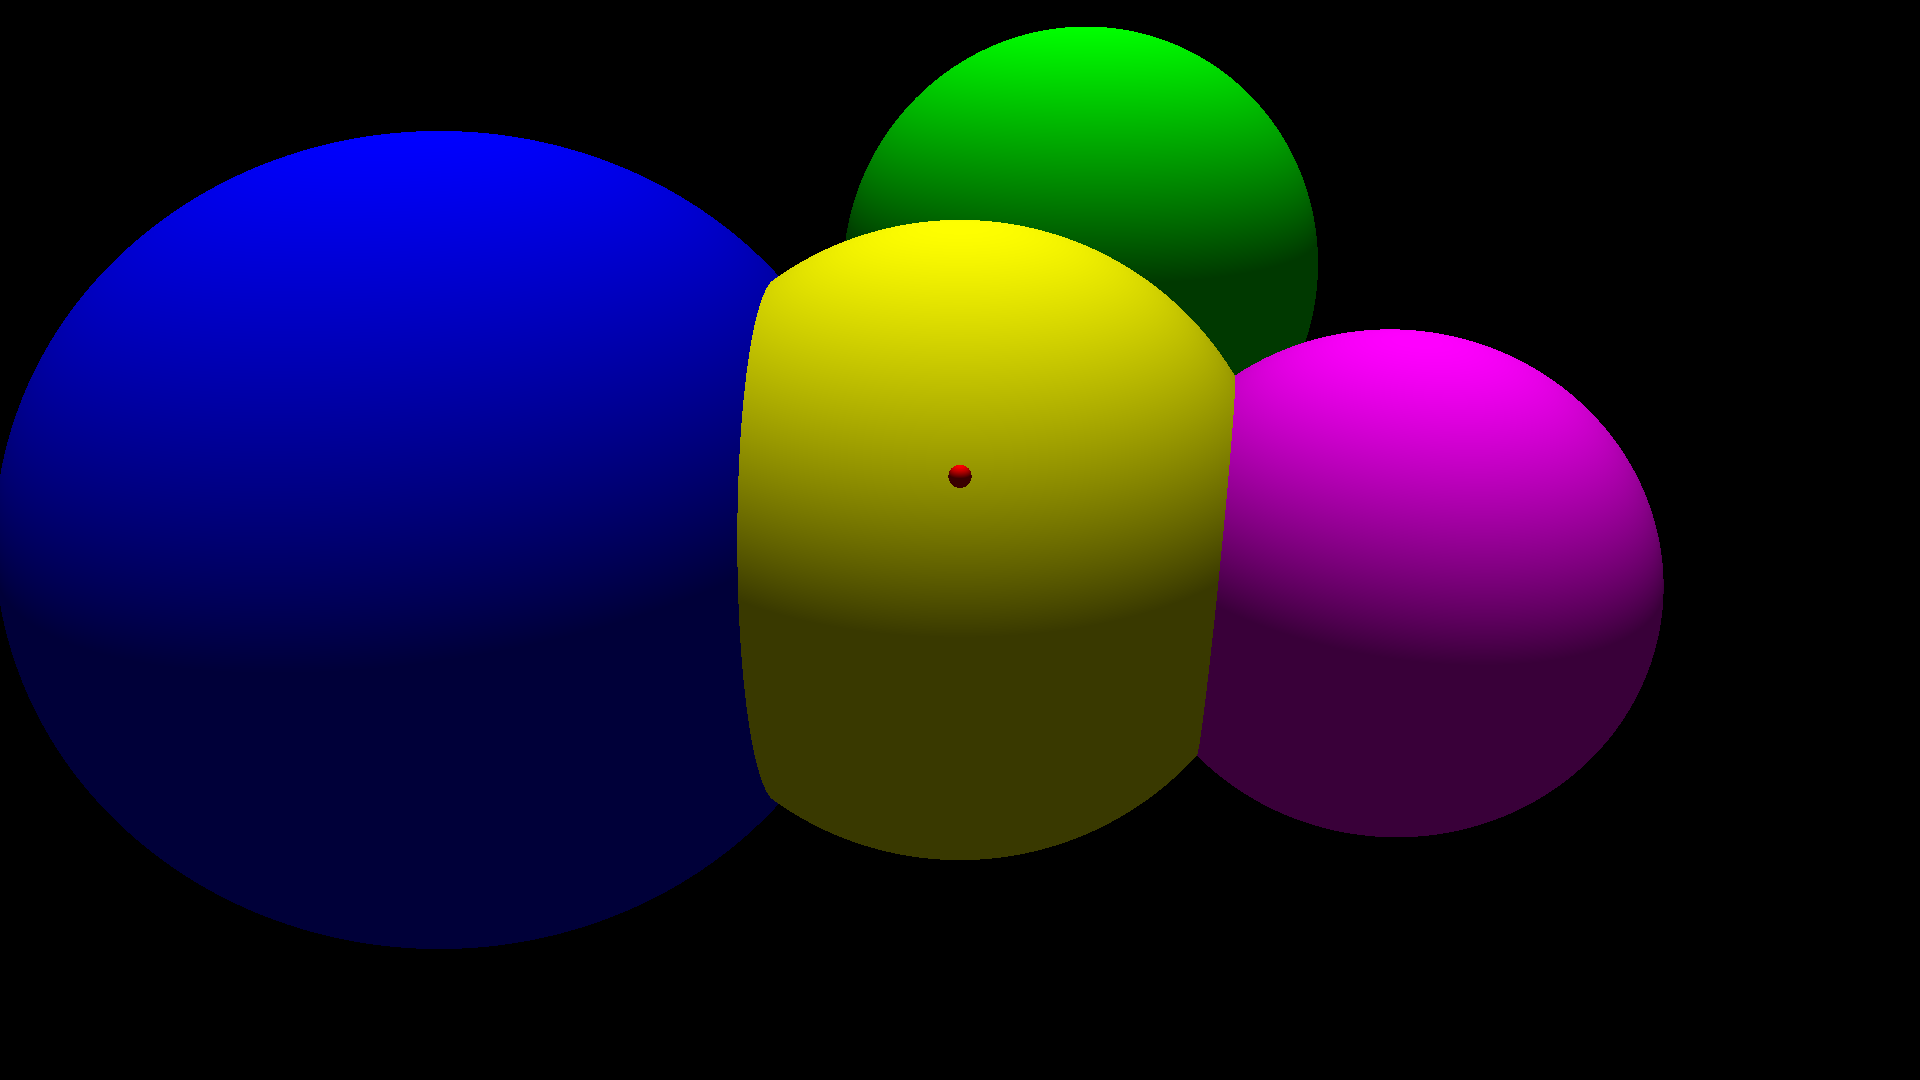
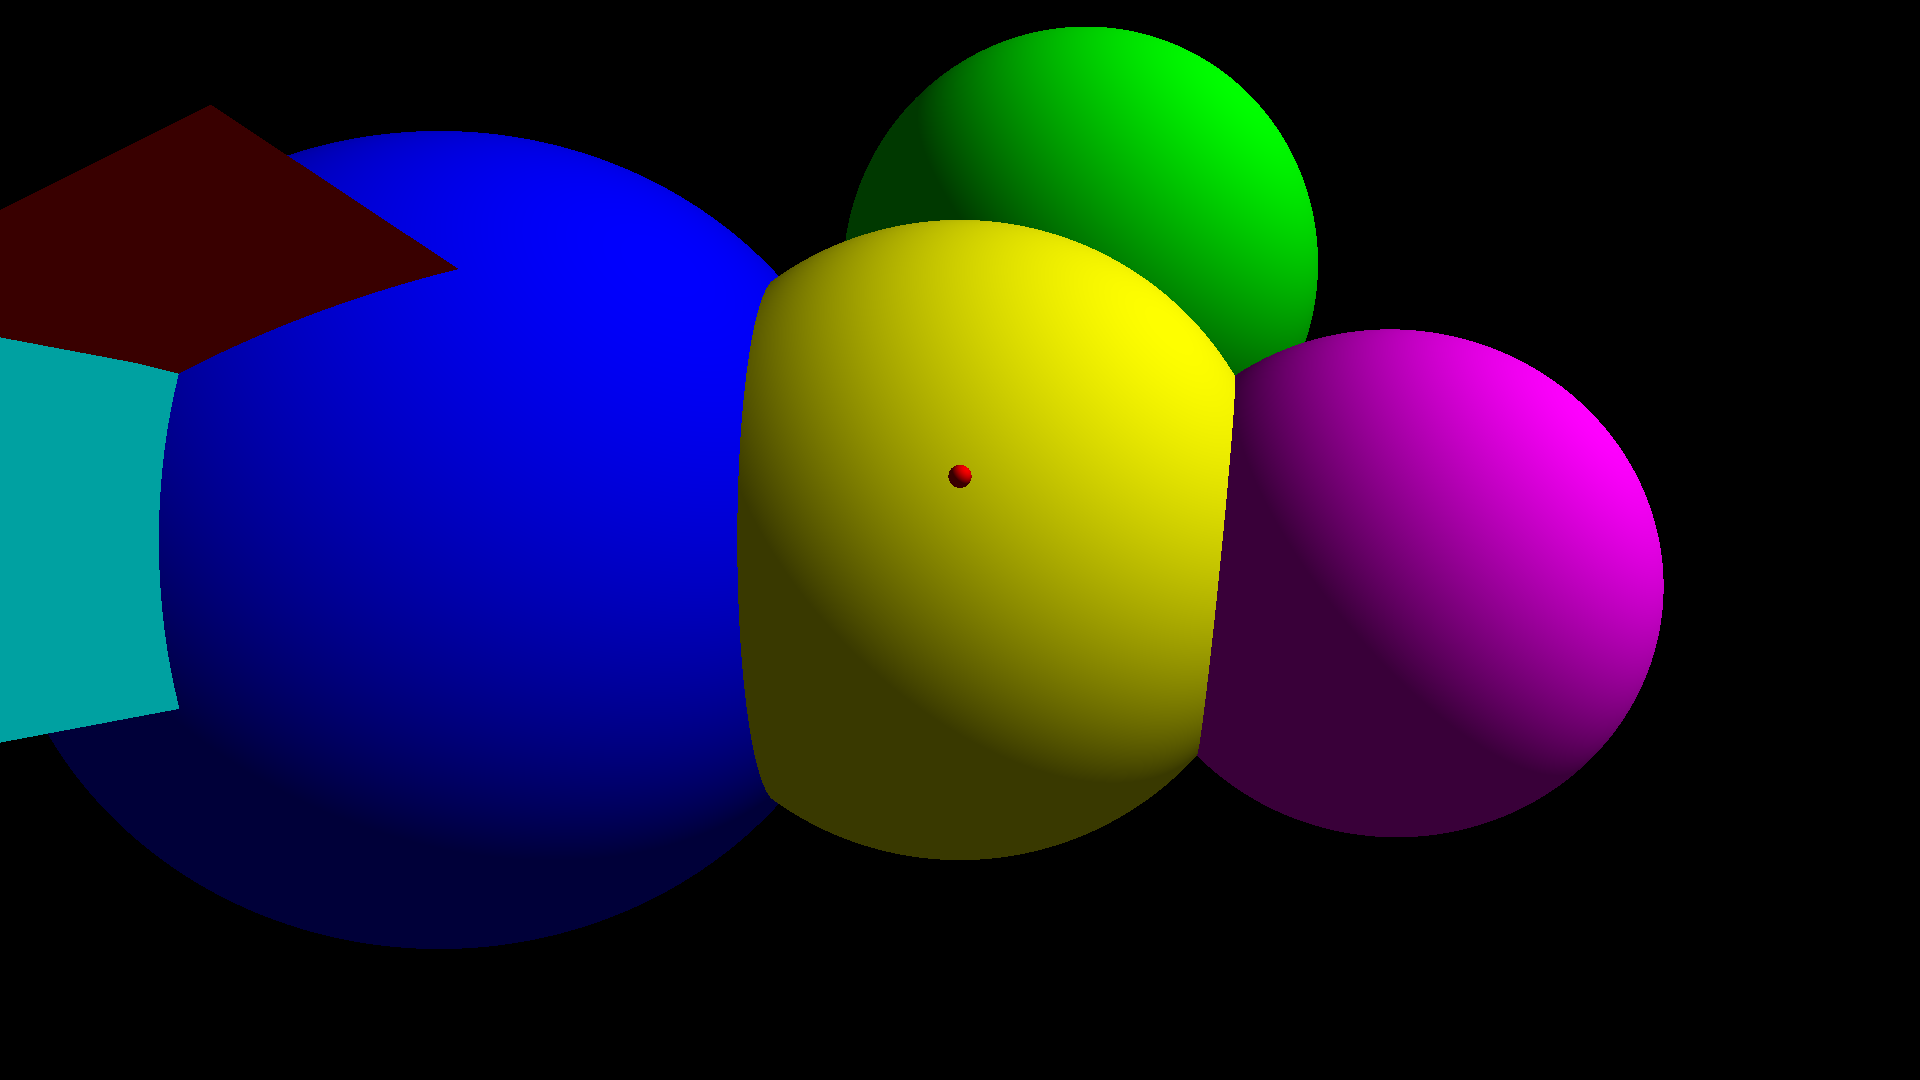
planes

diff --git a/src/main.cpp b/src/main.cpp
@@ -3,6 +3,7 @@
 #include <vector>
 
 #include "sphere.hpp"
+#include "plane.hpp"
 #include "camera.hpp"
 
 
@@ -11,26 +12,36 @@
 #define sizeX 1920
 #define sizeY 1080
 
-// Cameras vertical FOV
+// vertical FOV
 #define FOV 50
+#define CAM_POS Vec3(0, 0, -10)
+#define CLIP_PLANE_DIST 10
+
+#define BACKGROUND_COLOR Color(0,0,0)
+#define LIGHT_POS Vec3(1.0f, 1.0f, -1.0f)
+#define MIN_BRIGHTNESS 0.225f
 
 
 int main()
 {
     // light direction for lambertian shading
-    Vec3 LightDir(0.0f, 2.0f, -1.0f);
-    LightDir = LightDir.Normalized();
+    Vec3 LightPos = LIGHT_POS.Normalized();
 
-    std::vector<Sphere> objects;
-
-    objects.emplace_back(Vec3(2, 4.5f,10), Color::green, 4);
-    objects.emplace_back(Vec3(5, -0.5f,4), Color::purple, 3);
-    objects.emplace_back(Vec3(0,0.55f,0), Color::red, 0.1);
-    objects.emplace_back(Vec3(-6,0,5), Color::blue, 5);
-    objects.emplace_back(Vec3(0,0,5), Color::yellow, 4);
+    std::vector<Object*> objects;
 
 
-    Camera cam(Vec3(0, 0, -10), FOV, float(sizeX)/sizeY, 10.0f);
+    objects.insert(objects.end(), {
+        new Sphere(Vec3(2, 4.5f,10), 4, Color::green),
+        new Sphere(Vec3(5, -0.5f,4), 3, Color::purple),
+        new Sphere(Vec3(0,0.55f,0), 0.1f, Color::red),
+        new Sphere(Vec3(-6,0,5), 5, Color::blue),
+        new Sphere(Vec3(0,0,5), 4, Color::yellow),
+        new Plane(Vec3(-7,0,0), 3, 3, Vec3(1, 0, -0.1f).Normalized(), Color::cyan),
+        new Plane(Vec3(-7,1.5f,0), 5, 5, Vec3(0.5f,-1, -0.1f).Normalized(), Color::red)
+    });
+
+
+    Camera cam(CAM_POS, FOV, float(sizeX)/sizeY, CLIP_PLANE_DIST);
 
 
     // create a ppm
@@ -49,34 +60,34 @@ int main()
     {
         for (int x = 0; x < sizeX; x++)
         {
-            Color col = Color();
+            Color col = BACKGROUND_COLOR;
             // flip y to render starting from top left (to support ppm)
             float yf = 1.0f - y / (sizeY-1.0f);
             // shoot ray from camera to current pixel
             Ray3 ray(cam.pos, (cam.LocalToWorld(x/(sizeX-1.0f), yf) - cam.pos).Normalized());
 
-            Sphere* closestSphere = nullptr;
+            Object* closestObj = nullptr;
             float closestTime = 99999.0f;
             Vec3 closestNormal;
 
             // check for intersections with ray
-            for (Sphere& obj : objects)
+            for (Object* obj : objects)
             {
-                Hit hit = obj.RayIntersect(ray);
+                Hit hit = obj->RayIntersect(ray);
                 if (hit.hit)
                 {
                     // because ray is normalized we can use time which is faster than magnitude
                     if (hit.time < closestTime)
                     {
                         closestTime = hit.time;
-                        closestSphere = &obj;
+                        closestObj = obj;
                         closestNormal = hit.normal;
                     }
                 }
             }
-            if (closestSphere != nullptr)
+            if (closestObj != nullptr)
                 // apply lambertian shading, set min brightness using std::max
-                col = closestSphere->color * std::max(0.225f, closestNormal * LightDir);
+                col = closestObj->color * std::max(MIN_BRIGHTNESS, closestNormal * LightPos);
             
             
             image.write(reinterpret_cast<char*>(&col), 3);
@@ -84,4 +95,9 @@ int main()
     }
 
     image.close();
+
+    for (Object* obj : objects)
+    {
+        delete obj;
+    }
 }

diff --git a/src/plane.cpp b/src/plane.cpp
@@ -1,0 +1,38 @@
+#include "plane.hpp"
+
+Plane::Plane(Vec3 pos, float width, float height, Vec3 normal, Color color)
+     : Object(pos, color), width(width), height(height), normal(normal), d(-(normal * pos)), u(normal.Cross(Vec3(0,0,1)))
+{
+    v = normal.Cross(u);
+}
+
+
+// plane equation P * N + d = 0;
+// p being point, N being normal, d being offset from known point
+Hit Plane::RayIntersect(const Ray3& ray)
+{
+    float den = ray.dir * normal;
+    // exclude perpenducular and moving same direction as normal
+    if (den >= 0) return Hit();
+
+    // isolate t
+    float t = -(ray.origin * normal + d) / den;
+
+    // dont hit behind ray
+    if (t < 0) return Hit();
+
+    
+    
+    Vec3 relativePos = (ray.PosAtTime(t) - pos);
+    float x = relativePos * u;
+    float y = relativePos * v;
+
+    // stay within bounds
+    if (x > width/2 ||
+        x < -width/2 ||
+        y > height/2 ||
+        y < -height/2
+    ) return Hit();
+
+    return Hit(true, t, ray.PosAtTime(t), normal);
+}

diff --git a/src/sphere.cpp b/src/sphere.cpp
@@ -1,7 +1,7 @@
 #include "sphere.hpp"
 #include <cmath>
 
-Sphere::Sphere(Vec3 pos, Color color, float radius) : Object(pos, color), radius(radius) { }
+Sphere::Sphere(Vec3 pos, float radius, Color color) : Object(pos, color), radius(radius) { }
 
 // where <xo, yo, zo> is the origin of the ray, and <xd, yd, yd> is camera ray's direction.
 // <a, b, c> are spheres position vector

diff --git a/src/plane.hpp b/src/plane.hpp
@@ -1,0 +1,17 @@
+#pragma once
+
+#include "object.hpp"
+
+
+class Plane : public Object
+{
+public:
+    Plane(Vec3 pos = Vec3(0,0,0), float width = 9999, float height = 9999, Vec3 normal = Vec3(0,1,0), Color color = Color::green);
+    Hit RayIntersect(const Ray3& ray) override;
+
+private:
+    float width, height;
+    Vec3 normal;
+    float d;
+    Vec3 u, v;
+};

diff --git a/src/math.cpp b/src/math.cpp
@@ -19,6 +19,11 @@ Vec3 Vec3::Normalized() const
     return *this / this->Magnitude();
 }
 
+Vec3 Vec3::Cross(const Vec3& other) const
+{
+    return Vec3(y * other.z - z * other.y, z * other.x - x * other.z, x * other.y - y * other.x);
+}
+
 float Vec3::operator*(const Vec3& other) const
 {
     // dot product

diff --git a/src/sphere.hpp b/src/sphere.hpp
@@ -6,7 +6,7 @@
 class Sphere : public Object
 {
 public:
-    Sphere(Vec3 pos = Vec3(), Color color = Color::green, float radius = 1.0f);
+    Sphere(Vec3 pos = Vec3(), float radius = 1.0f, Color color = Color::green);
     Hit RayIntersect(const Ray3& ray) override;
 
 private:

diff --git a/src/math.hpp b/src/math.hpp
@@ -11,6 +11,7 @@ struct Vec3
     float Magnitude() const;
     float SqrMagnitude() const;
     Vec3 Normalized() const;
+    Vec3 Cross(const Vec3& other) const;
 
     
     float operator*(const Vec3& other) const;

diff --git a/README.md b/README.md
@@ -17,3 +17,5 @@ g++ -o raycast ./src/*.cpp
 
 Generates an `image.ppm` in the project directory.
  - [Gimp](https://www.gimp.org/) can be used to view the .ppm
+
+#TODO ADD USAGE
